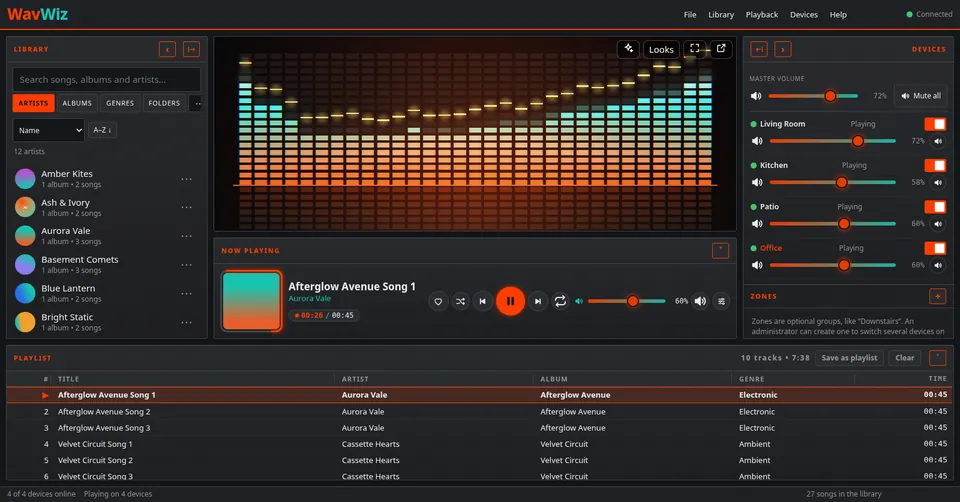
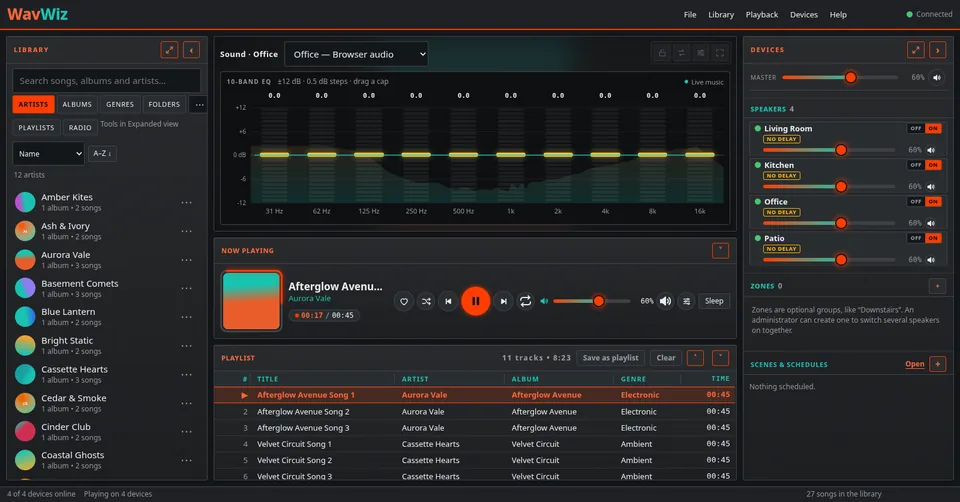
Site: real 0.3.5 screenshots (main window, iPhone Devices, social preview), softwareVersion 0.3.5, alt text

diff --git a/index.html b/index.html
@@ -78,7 +78,7 @@
         "softwareRequirements": "Microsoft Edge WebView2 Runtime for the player window (included with Windows 11 and current Windows 10)",
         "image": "https://wavwiz.com/assets/img/og-image.png",
         "screenshot": "https://wavwiz.com/assets/img/wavwiz-app-window.webp",
-        "softwareVersion": "0.3.4",
+        "softwareVersion": "0.3.5",
         "downloadUrl": "https://github.com/vdubbin74/WavWiz/releases/latest",
         "installUrl": "https://github.com/vdubbin74/WavWiz/releases/latest",
         "releaseNotes": "https://github.com/vdubbin74/WavWiz/releases/latest",
@@ -323,7 +323,7 @@
           <h2 id="app-title">One window runs the <span class="accent-t">whole house</span>.</h2>
         </header>
         <figure class="app-frame reveal">
-          <img src="assets/img/wavwiz-app-window.webp" srcset="assets/img/wavwiz-app-window-960.webp 960w, assets/img/wavwiz-app-window.webp 1600w" sizes="(max-width: 1200px) calc(100vw - 36px), 1152px" width="1600" height="837" loading="lazy" decoding="async" alt="The WavWiz app window. Library panel on the left, the Graphic EQ visualizer in the middle with Now Playing below it, Devices on the right with master volume, Mute all, and Living Room, Kitchen, Patio and Office playing, and the Playlist across the bottom.">
+          <img src="assets/img/wavwiz-app-window.webp" srcset="assets/img/wavwiz-app-window-960.webp 960w, assets/img/wavwiz-app-window.webp 1600w" sizes="(max-width: 1200px) calc(100vw - 36px), 1152px" width="1600" height="837" loading="lazy" decoding="async" alt="The WavWiz app window. Library panel on the left, the 10-band EQ with live music in the middle and Now Playing below it, Devices on the right with master volume and Living Room, Kitchen, Office and Patio playing, and the Playlist across the bottom.">
           <figcaption>The real WavWiz window: library, visualizer, Now Playing, devices and zones, and the shared playlist.</figcaption>
         </figure>
       </div>
@@ -482,7 +482,7 @@
             <h3>Add devices</h3>
             <p>Old PCs and laptops run WavWiz Player; phones and tablets just open the page, no app needed. Each one plays through whatever it's connected to: HDMI, a receiver or a Bluetooth speaker.</p>
             <div class="step-media">
-              <img src="assets/img/wavwiz-step-phone-iphone.webp" width="600" height="1176" loading="lazy" decoding="async" alt="WavWiz Devices in an iPhone's web browser: master volume and Mute all, then the Living Room and Kitchen speakers playing, each with its own volume and delay, and the playing song at the bottom.">
+              <img src="assets/img/wavwiz-step-phone-iphone.webp" width="600" height="1176" loading="lazy" decoding="async" alt="WavWiz Devices in an iPhone's web browser: master volume, then Living Room, Kitchen, Patio and the iPhone itself playing in sync, each with its own on and off switch and volume, and the playing song at the bottom.">
             </div>
           </li>
           <li class="card step reveal">
@@ -490,7 +490,7 @@
             <h3>Line up and play</h3>
             <p>Calibrate once with a PC mic or your phone so every device lines up, group devices into zones, and play on every device in sync. Having people over? Hand the queue to Jukebox mode.</p>
             <div class="step-media">
-              <img src="assets/img/wavwiz-app-window-960.webp" width="960" height="502" loading="lazy" decoding="async" alt="The WavWiz app window with the library, the Graphic EQ visualizer and Now Playing in the middle, and Devices on the right with Living Room, Kitchen, Patio and Office playing together.">
+              <img src="assets/img/wavwiz-app-window-960.webp" width="960" height="502" loading="lazy" decoding="async" alt="The WavWiz app window with the library, the 10-band EQ and Now Playing in the middle, and Devices on the right with Living Room, Kitchen, Office and Patio playing together.">
             </div>
           </li>
         </ol>
